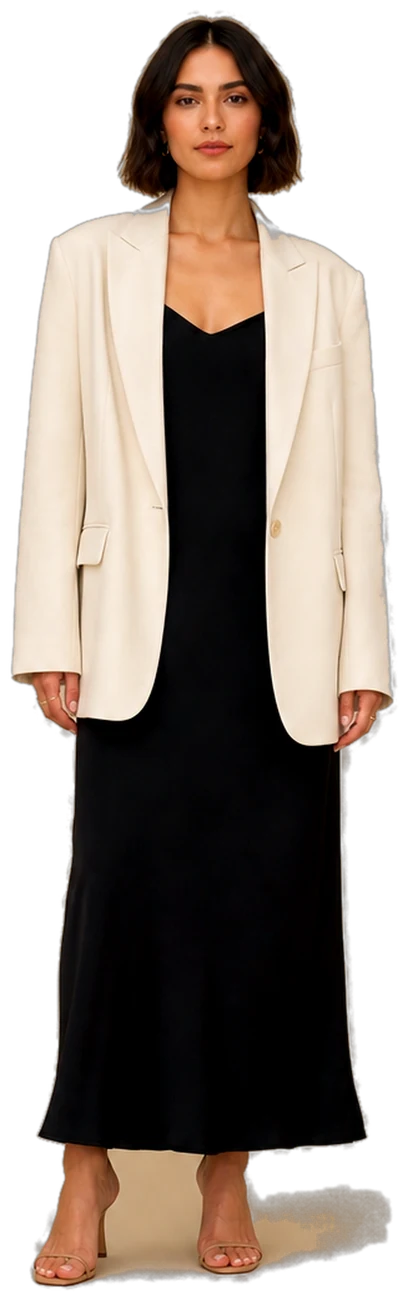
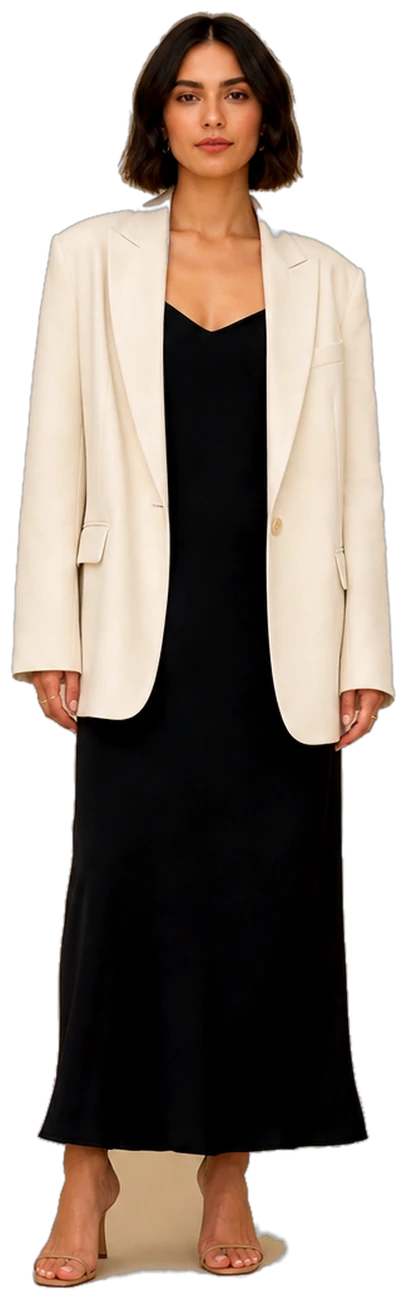
fix(kesim-shadow): fit the paper in 2D so the floor stops coming with her (#15)
The blotch beside her shoes was not a shadow the matte had failed to drop — it
was the floor itself, kept because the background it was compared against was
wrong there. The model interpolated between the left and right margins of each
row, and the seamless paper has a lit pool around her feet that no left-to-right
blend predicts, so a whole slab of floor measured as far from the model as she
did.

Threshold tuning could not separate them; I tried, and the two overlap
completely. Neither could a shadow key on colour ratios, because her shoes and
the shadow sit within a few hundredths of each other.

The paper is fitted properly now: mask her out with a rough first pass, average
what is left over a coarse grid, grow that average into the cells she covers,
smooth it back up to full size, and key against that. What survives is the soft
contact under her soles, which is what the artifact has.

work/design-v3/cutout/ keeps the script and its source render, so the asset can
be rebuilt rather than only replaced.

Claude-Session: https://claude.ai/code/session_019P5K1ry6DM4vvZ84PTD6Fj

diff --git a/work/design-v3/cutout/cut.py b/work/design-v3/cutout/cut.py
@@ -1,0 +1,134 @@
+"""Cut the Kesim subject out of her studio backdrop.
+
+Three things had to be true at once, and each was learned by getting it wrong.
+
+A colour key alone deletes her face: her skin sits as close to the paper as a soft edge
+does. The backdrop, though, is one region connected to the frame and she is not part of
+it, so the key only proposes and a border flood fill decides.
+
+The background it is compared against cannot be a straight interpolation between the
+left and right margins. The seamless paper has a lit pool around her feet that no
+left-to-right blend predicts, so that whole slab of floor came out as far from the model
+as she is, and the cut-out carried a beige puddle around her shoes. The model here is
+fitted in two dimensions instead: mask her out, average what is left over a coarse grid,
+grow that average into the cells she covered, and smooth it back up to full size.
+
+Finally the edge pixels are decontaminated — a partly transparent pixel is a mix of
+subject and backdrop, so the backdrop's share is divided back out — which is what stops
+a beige fringe when she is composited on a ground that is not this beige.
+"""
+from PIL import Image, ImageChops, ImageDraw, ImageEnhance, ImageFilter
+import os, sys
+
+GRID_W, GRID_H = 18, 26
+NEAR, FAR = 17, 40
+
+
+def background_model(src, subject):
+    """A smooth 2D estimate of the paper, fitted where the subject is not."""
+    W, H = src.size
+    weight = subject.point(lambda v: 255 - v)
+    num = [ImageChops.multiply(c, weight).resize((GRID_W, GRID_H), Image.BOX).getdata()
+           for c in src.split()]
+    den = weight.resize((GRID_W, GRID_H), Image.BOX).getdata()
+
+    cells = []
+    for i in range(GRID_W * GRID_H):
+        w = den[i]
+        cells.append(None if w < 24 else tuple(min(255, round(n[i] * 255 / w)) for n in num))
+
+    # Grow the known cells into the ones she covers, so the estimate stays smooth across
+    # her rather than jumping at her outline.
+    for _ in range(GRID_W + GRID_H):
+        if all(c is not None for c in cells):
+            break
+        nxt = list(cells)
+        for y in range(GRID_H):
+            for x in range(GRID_W):
+                i = y * GRID_W + x
+                if cells[i] is not None:
+                    continue
+                near = [cells[y2 * GRID_W + x2]
+                        for x2, y2 in ((x - 1, y), (x + 1, y), (x, y - 1), (x, y + 1))
+                        if 0 <= x2 < GRID_W and 0 <= y2 < GRID_H and cells[y2 * GRID_W + x2]]
+                if near:
+                    nxt[i] = tuple(round(sum(v[c] for v in near) / len(near)) for c in range(3))
+        cells = nxt
+
+    small = Image.new("RGB", (GRID_W, GRID_H))
+    small.putdata([c or (0, 0, 0) for c in cells])
+    return small.resize((W, H), Image.BICUBIC).filter(ImageFilter.GaussianBlur(12))
+
+
+def matte(src, bg):
+    W, H = src.size
+    d = ImageChops.difference(src, bg).split()
+    dist = ImageChops.lighter(ImageChops.lighter(d[0], d[1]), d[2])
+
+    binary = dist.point(lambda v: 255 if v <= 30 else 0)
+    seeds = [(2, 2), (W - 3, 2), (2, H - 3), (W - 3, H - 3)]
+    seeds += [(x, 2) for x in range(20, W, 40)] + [(x, H - 3) for x in range(20, W, 40)]
+    seeds += [(2, y) for y in range(20, H, 40)] + [(W - 3, y) for y in range(20, H, 40)]
+    for sx, sy in seeds:
+        if binary.getpixel((sx, sy)) == 255:
+            ImageDraw.floodfill(binary, (sx, sy), 128, thresh=0)
+    outside = binary.point(lambda v: 255 if v == 128 else 0)
+
+    ramp = dist.point(lambda v: 0 if v <= NEAR else (255 if v >= FAR else int(255 * (v - NEAR) / (FAR - NEAR))))
+    alpha = Image.composite(ramp, Image.new("L", (W, H), 255), outside)
+    return alpha.filter(ImageFilter.GaussianBlur(0.7))
+
+
+src = Image.open("gen/kesim-woman.png").convert("RGB")
+src = ImageEnhance.Contrast(src).enhance(1.13)
+src = ImageEnhance.Color(src).enhance(1.14)
+src = ImageEnhance.Brightness(src).enhance(0.98)
+W, H = src.size
+
+# Pass one: a crude margin-interpolated model, only good enough to locate her.
+band = 40
+left = src.crop((0, 0, band, H)).resize((1, H), Image.BOX)
+right = src.crop((W - band, 0, W, H)).resize((1, H), Image.BOX)
+strip = Image.new("RGB", (2, H)); strip.paste(left, (0, 0)); strip.paste(right, (1, 0))
+rough = matte(src, strip.resize((W, H), Image.BILINEAR))
+
+# Pass two: fit the paper properly with her masked out, then key against that.
+bg = background_model(src, rough.filter(ImageFilter.MaxFilter(21)))
+alpha = matte(src, bg)
+
+# Keep only the blob that is her, so no patch of paper the model still misreads floats
+# beside her on a ground that is not this beige.
+solid = alpha.point(lambda v: 255 if v >= 235 else 0)
+cx, cy = W // 2, int(H * 0.55)
+assert solid.getpixel((cx, cy)) == 255, "seed is not inside the subject"
+ImageDraw.floodfill(solid, (cx, cy), 200, thresh=0)
+keep = solid.point(lambda v: 255 if v == 200 else 0)
+keep = keep.filter(ImageFilter.MaxFilter(7)).filter(ImageFilter.GaussianBlur(1.4))
+alpha = ImageChops.multiply(alpha, keep)
+
+inv = alpha.point(lambda v: 255 - v)
+front = Image.merge("RGB", [
+    ImageChops.subtract(c, ImageChops.multiply(b, inv)) for c, b in zip(src.split(), bg.split())
+])
+edge = alpha.point(lambda v: 255 if 8 < v < 248 else 0).filter(ImageFilter.GaussianBlur(0.6))
+rgb = Image.composite(front, src, edge)
+
+cut = Image.merge("RGBA", (*rgb.split(), alpha))
+box = alpha.point(lambda v: 255 if v > 6 else 0).getbbox()
+pad = 8
+cut = cut.crop((max(0, box[0] - pad), max(0, box[1] - pad), min(W, box[2] + pad), min(H, box[3] + pad)))
+cut = cut.resize((round(cut.width * 1500 / cut.height), 1500), Image.LANCZOS)
+cut.save("kesim-cut.png")
+print("cut", cut.size, os.path.getsize("kesim-cut.png") // 1024, "kb")
+
+panels = []
+for col in [(236, 214, 191), (0, 120, 200)]:
+    full = Image.new("RGB", cut.size, col); full.paste(cut, (0, 0), cut)
+    small = full.copy(); small.thumbnail((250, 740))
+    feet = full.crop((0, cut.height - 330, cut.width, cut.height))
+    panels += [small, feet]
+proof = Image.new("RGB", (sum(p.width for p in panels) + 30, max(p.height for p in panels)), (30, 30, 30))
+x = 0
+for p in panels:
+    proof.paste(p, (x, 0)); x += p.width + 10
+proof.save("cut-proof.png"); print("proof", proof.size)

diff --git a/docs/DECISIONS.md b/docs/DECISIONS.md
@@ -54,3 +54,4 @@ Append-only. One line per decision, newest last.
 2026-09-08 — The matte is a border flood fill on a local-background distance map, not a threshold: her skin sits close to the backdrop, so thresholding alone punched holes through her face. The backdrop is one region connected to the frame edge and she is not part of it. Afterwards only the blob connected to her is kept, which drops every patch of paper texture the background model got wrong, and edge pixels are decontaminated so there is no beige fringe on a different ground.
 2026-09-08 — Studio client components are named exports, never properties hung off another component. `<LeadsTools.AddLead />` crashed /studio/leads in production with "Element type is invalid": across the server/client boundary a "use client" module becomes a reference proxy carrying only its exports, so the property arrived undefined. app/studio/studio.test.ts guards the shape.
 2026-09-08 — `npm run eject` copies public/stock and leaves root-relative image paths alone. It was calling fetch() on "/stock/…", which throws — eject was broken outright for every template that ships with its own photography, i.e. all six salon templates.
+2026-09-08 — The Kesim cut-out's background model is fitted in two dimensions, not interpolated between the left and right margins. The seamless paper has a lit pool around her feet that no left-to-right blend predicts, so that slab of floor read as far from the model as she did and the cut-out carried a hard-edged beige puddle around her shoes. The paper is now averaged over a coarse grid with her masked out, grown into the cells she covers, and smoothed back up. work/design-v3/cutout/ holds the script and its source render.
